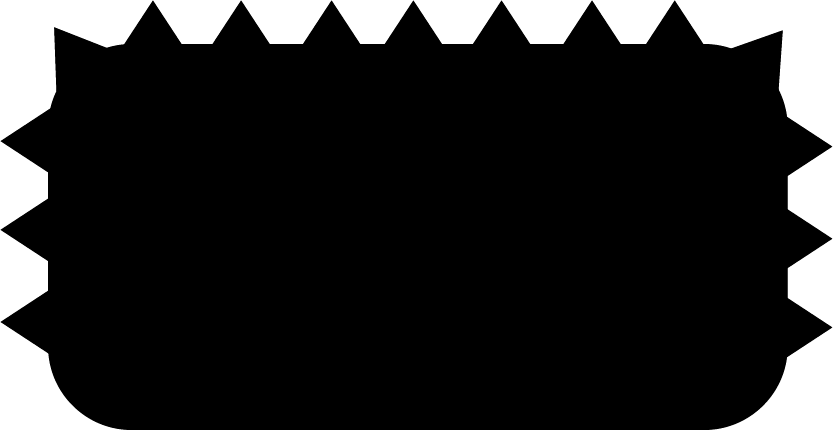
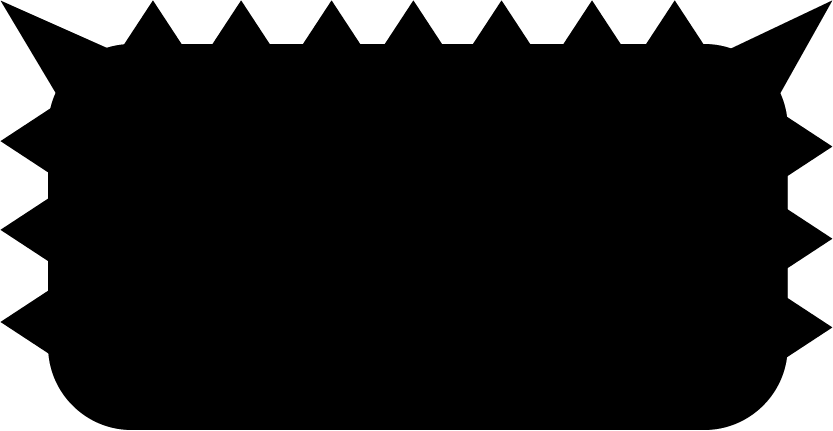
fixed background art, added spikes to show where obstacle box ends in the corners, fixed bg and prop timing to reflect song speed up, put old art in folders labeled old

Changed region(s): [[0.0, 0.0, 0.0936, 0.2111], [0.9052, 0.0, 0.9988, 0.2111], [0.8739, 0.0905, 0.9052, 0.1206]]

diff --git a/scripts/script.js b/scripts/script.js
@@ -401,7 +401,7 @@ const game = {
         const bird = new Obstacle(
             [1280, 80],
             [70, 50],
-            oVelocity + 400,
+            oVelocity + 520,
             undefined,
             "assets/graphics/obstacles/bird.png"
         );
@@ -487,8 +487,8 @@ class Obstacle {
         let playPos = {x: gamePlayer.currentPosition[0], y: gamePlayer.currentPosition[1], width: gamePlayer.dimensions[0], height: gamePlayer.dimensions[1]};
 
         if (obst.x < playPos.x + playPos.width && obst.x + obst.width > playPos.x && obst.y < playPos.y + playPos.height && obst.y + obst.height > playPos.y) {
-            game.gameOver();
-            // console.log('game-over');
+            // game.gameOver();
+            console.log('game-over');
         }
     }
 }
@@ -509,19 +509,21 @@ class BGLayer {
         this.backgroundImage = backgroundImage;
     }
     updatePosition(elapsedTimeMS = 1000) {
-        if (game.gameLevel === 1) {
+        if (game.gameLevel === 0) {
             this.velocity = -50;
-        } else if (game.gameLevel === 2) {
+        } else if (game.gameLevel === 1) {
             this.velocity = -100;
+        } else if (game.gameLevel === 2){
+            this.velocity = -150;
         } else if (game.gameLevel === 3){
-            this.velocity = -150;
+            this.velocity = -190;
         } else if (game.gameLevel === 4){
-            this.velocity = -210;
-        } else if (game.gameLevel === 5){
             this.velocity = -150;
-        } else if (game.gameLevel === 6){
+        } else if (game.gameLevel === 5){
             this.velocity = -100;
-        } else if (game.gameLevel === 7){
+        } else if (game.gameLevel === 6){
+            this.velocity = -75;
+        } else if (game.gameLevel === 7) {
             this.velocity = -50;
         }
 
@@ -549,19 +551,21 @@ class BGProp {
         this.backgroundImage = backgroundImage;
     }
     updatePosition(elapsedTimeMS = 1000) {
-        if (game.gameLevel === 1) {
+        if (game.gameLevel === 0) {
             this.velocity = -125;
-        } else if (game.gameLevel === 2) {
+        } else if (game.gameLevel === 1) {
             this.velocity = -150;
+        } else if (game.gameLevel === 2){
+            this.velocity = -175;
         } else if (game.gameLevel === 3){
-            this.velocity = -175;
+            this.velocity = -200;
         } else if (game.gameLevel === 4){
-            this.velocity = -210;
-        } else if (game.gameLevel === 5){
             this.velocity = -175;
-        } else if (game.gameLevel === 6){
+        } else if (game.gameLevel === 5){
             this.velocity = -150;
-        } else if (game.gameLevel === 7){
+        } else if (game.gameLevel === 6){
+            this.velocity = -120;
+        } else if (game.gameLevel === 7) {
             this.velocity = -100;
         }
         const leftPosition = this.$dom.css("left");

diff --git a/game-credits.html b/game-credits.html
@@ -29,7 +29,7 @@
                 <section class='home-credits'>
                     <h2 class='credits-section-title'>Music</h2>
                     <hr class='credits-row'>
-                    <!-- <h3>Composed, Performed, and Recorded By:</h3> -->
+                    <h3>Composed, Performed, and Recorded By:</h3>
                     <a href="https://www.coulson.codes/">Chris Coulson and Lowell Donaldson</a>
                 </section>
                 

diff --git a/index.html b/index.html
@@ -87,7 +87,7 @@
         <div id="help-screen">
             <h2>Gameplay Instructions</h2>
             <p id='help-text'>
-                Press the spacebar to jump, hold to jump higher.
+                Press spacebar or up-arrow to jump, hold to jump higher.
                 <br>
                 Avoid obstacles in the road as well as birds flying above.<br>
                 Rocks cannot hurt you, only spiked blocks and birds can.
